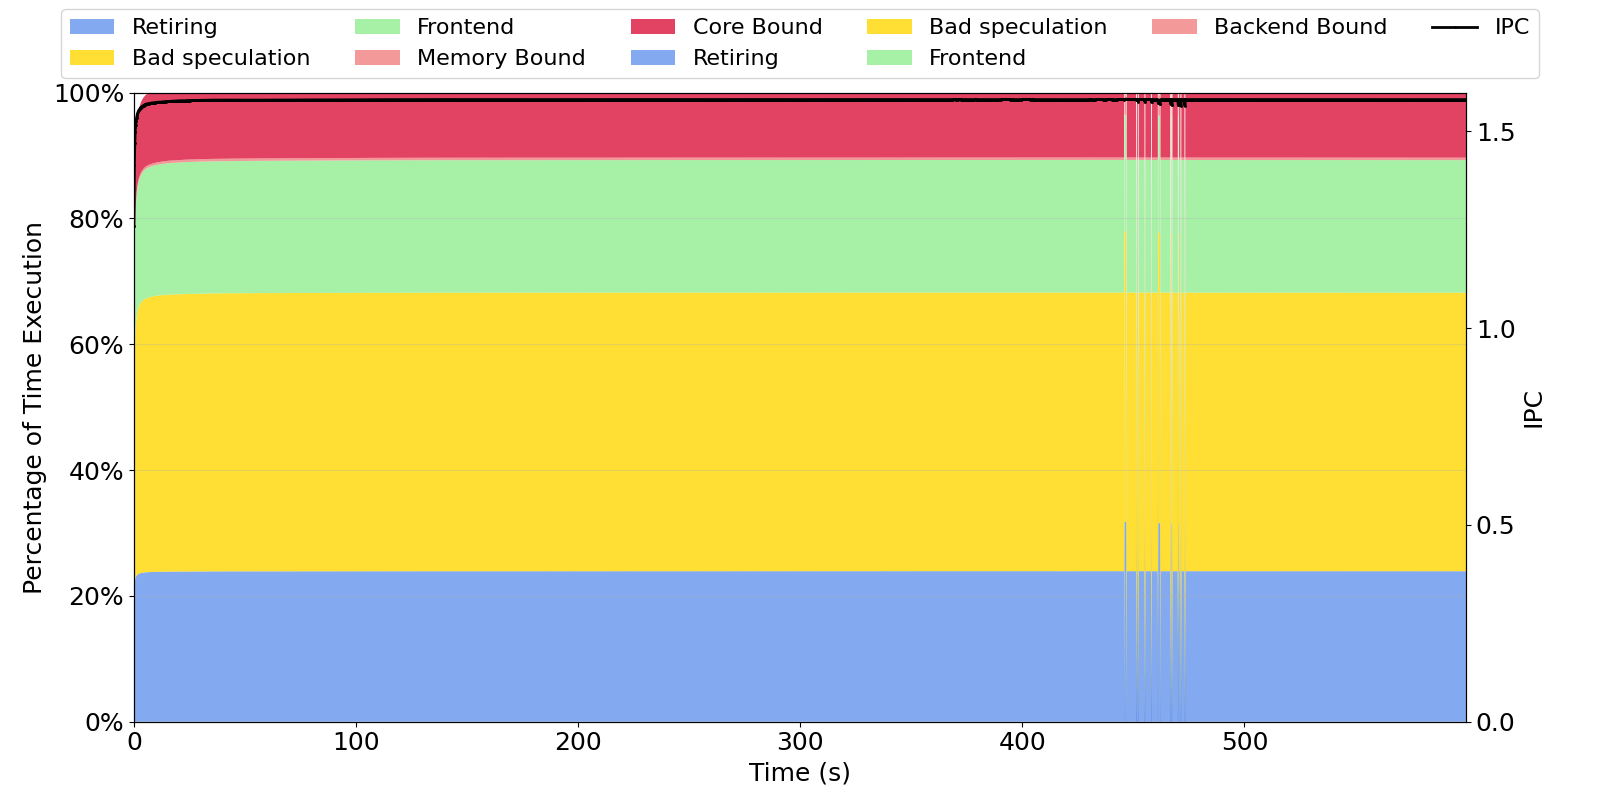
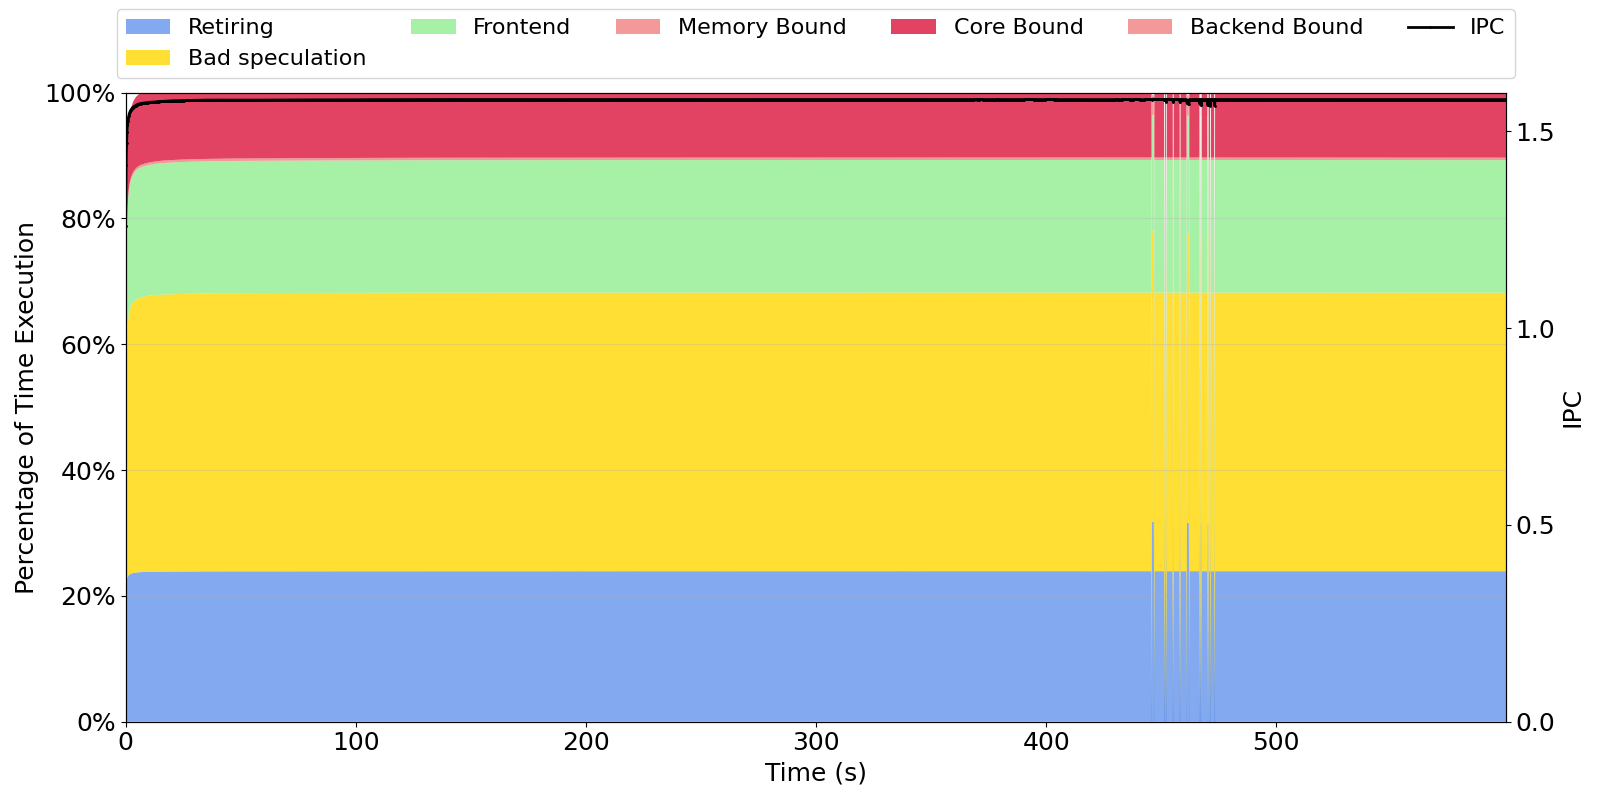
Goo

diff --git a/topdown_juntas.py b/topdown_juntas.py
@@ -48,7 +48,7 @@ def main():
                             labels=["Retiring", "Bad speculation", "Frontend","Memory Bound", "Core Bound"], alpha=0.8)
 
             ax1.stackplot(tiempo, retiring_plot_e, bad_plot_e, frontend_plot_e, backend_bound_plot_e, colors=color_map,
-                            labels=["Retiring", "Bad speculation", "Frontend", "Backend Bound"], alpha=0.8)
+                            labels=["", "", "", "Backend Bound"], alpha=0.8)
                 
 
             str_t = f'Time (s)'
